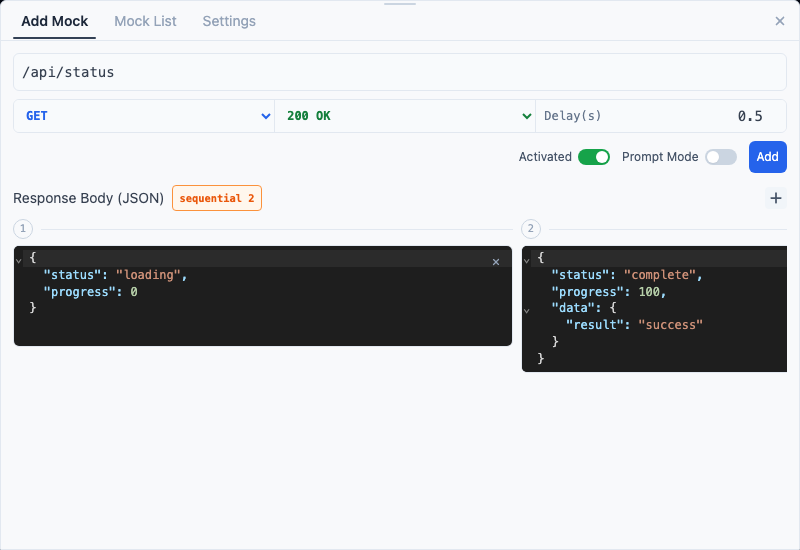
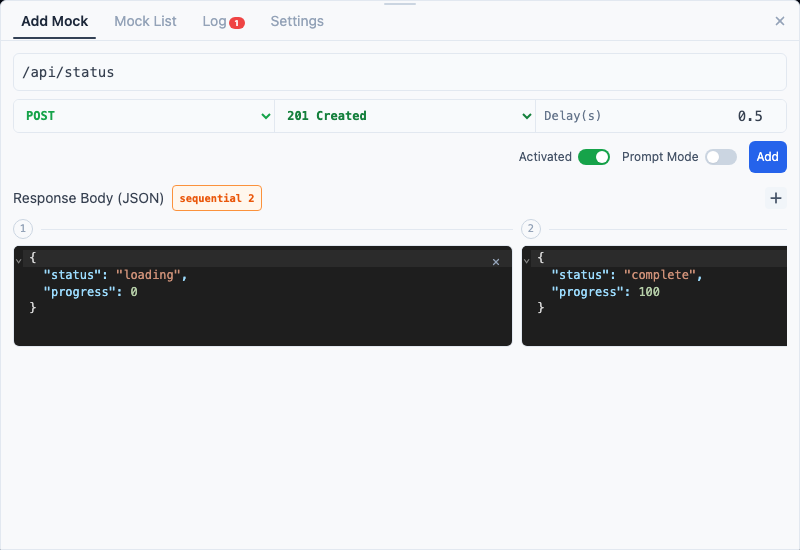
docs: add Request Log feature to README with screenshots
- Add Request Log section to EN and KO README
- Add image5.png (Log tab screenshot) for EN and KO
- Update feature list and screenshot gallery
- Re-capture all screenshots (image1-5) for consistency

diff --git a/README.md b/README.md
@@ -26,6 +26,7 @@
 - **Export and Import Mock Request Handlers.** Easily share mock request handlers in JSON format.
 - **Live JSON Editing for Instant Management of MSW Request Handlers.** Changes made in the Devtools UI are instantly synced with your JSON file. ([🔗](#live-json-editing-for-instant-management-of-msw-request-handlers))
 - **Prompt Mode for Real-time Response Control.** Manually enter response data for each request through an interactive modal. ([🔗](#prompt-mode-for-real-time-response-control))
+- **Request Log for Real-time Monitoring.** View all intercepted requests in real-time, inspect request/response bodies, and create mocks from unmatched requests with one click. ([🔗](#request-log-for-real-time-monitoring))
 
 <br />
 
@@ -33,6 +34,7 @@
   <img width="500" src="./README/EN/image1.png">
   <img width="500" src="./README/EN/image2.png">
   <img width="500" src="./README/EN/image3.png">
+  <img width="500" src="./README/EN/image5.png">
   <img width="500" src="./README/EN/prompt-mode.gif">
 </p>
 
@@ -142,6 +144,21 @@ To use Prompt Mode, simply toggle it on for a specific request handler in the De
 - **Sequential Response**: Lets you pre-define multiple response values that will be returned in sequence (first request gets first response, second request gets second response, etc.).
 
 Choose Prompt Mode when you need maximum flexibility during testing or demos. Use Sequential Response when you have a predictable series of responses needed for a specific test flow.
+
+## Request Log for Real-time Monitoring
+
+The Log tab shows all intercepted requests in real-time, helping you understand how your mocks are being used.
+
+<p align="center">
+  <img width="500" src="./README/EN/image5.png">
+</p>
+
+- **Real-time request logging** with timestamps, methods, status codes, and response duration
+- **Matched vs. Unmatched** requests are visually distinguished
+- **Expandable detail view** for inspecting request/response bodies
+- **One-click mock creation** from unmatched requests — click "Add Mock for this URL" to jump to the Add Mock tab with the URL pre-filled
+- **Recording toggle** to pause/resume capture
+- **Filter** by All, Matched, or Unmatched requests
 
 ## Live JSON Editing for Instant Management of MSW Request Handlers
 
